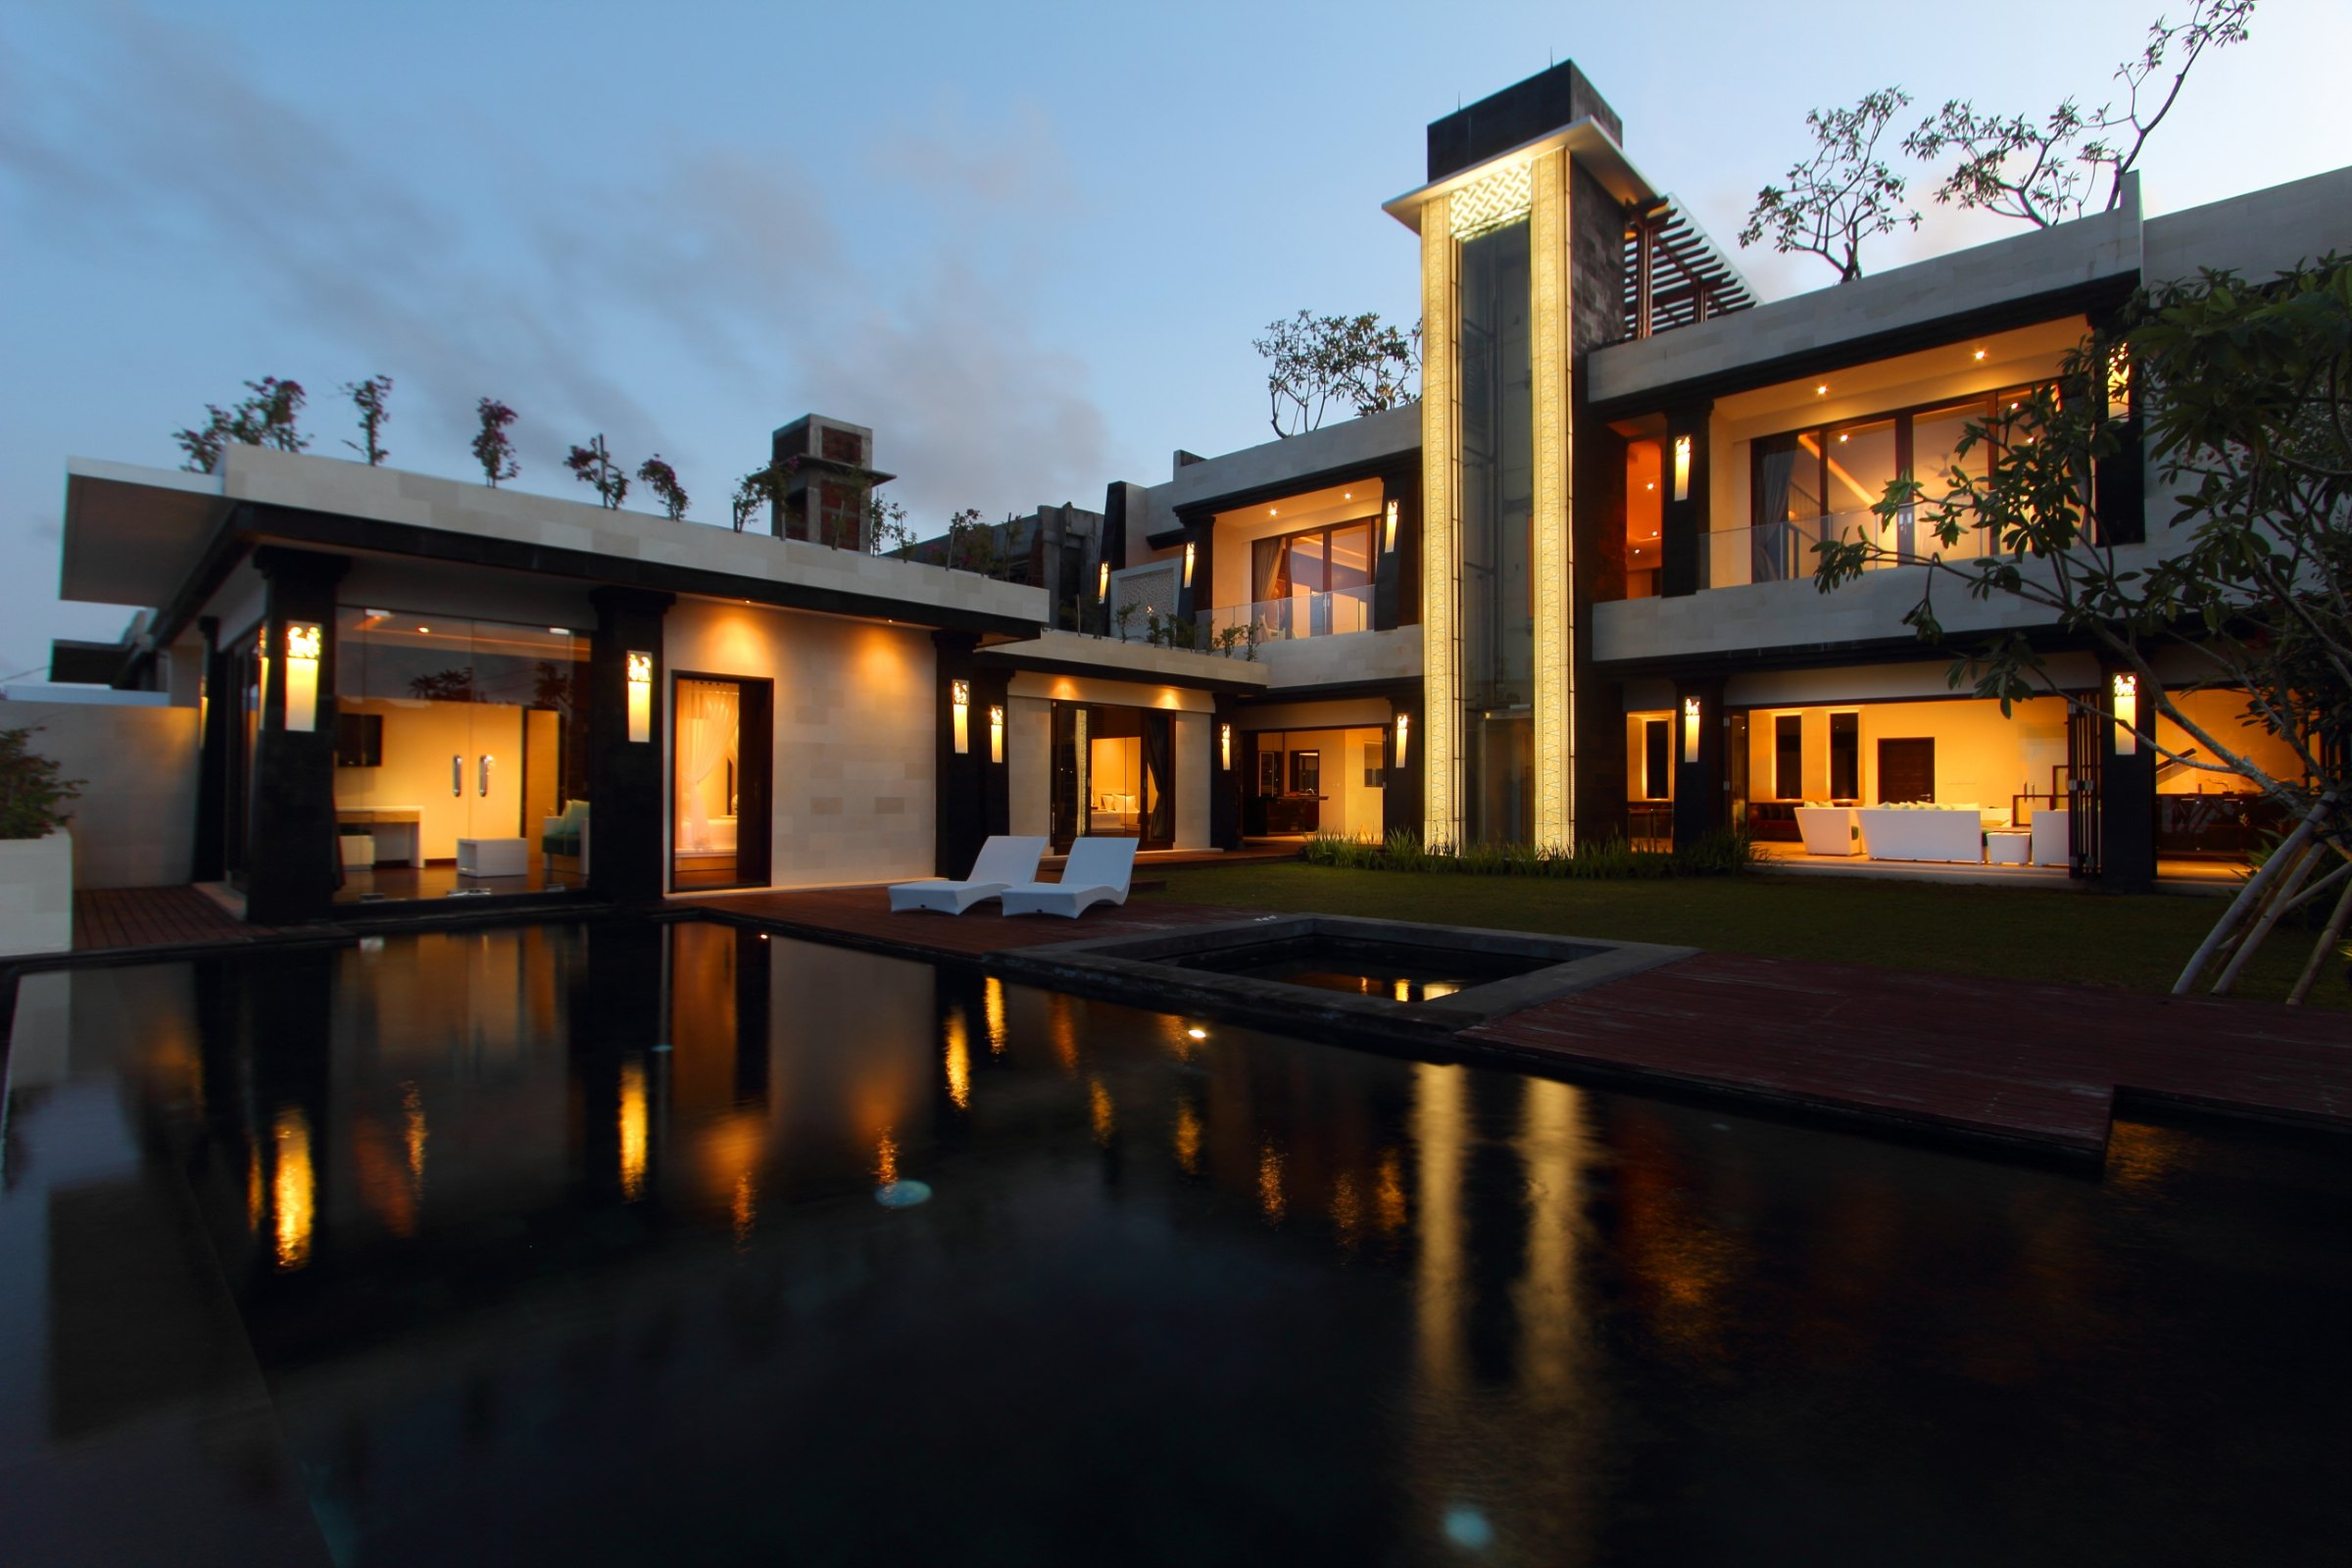
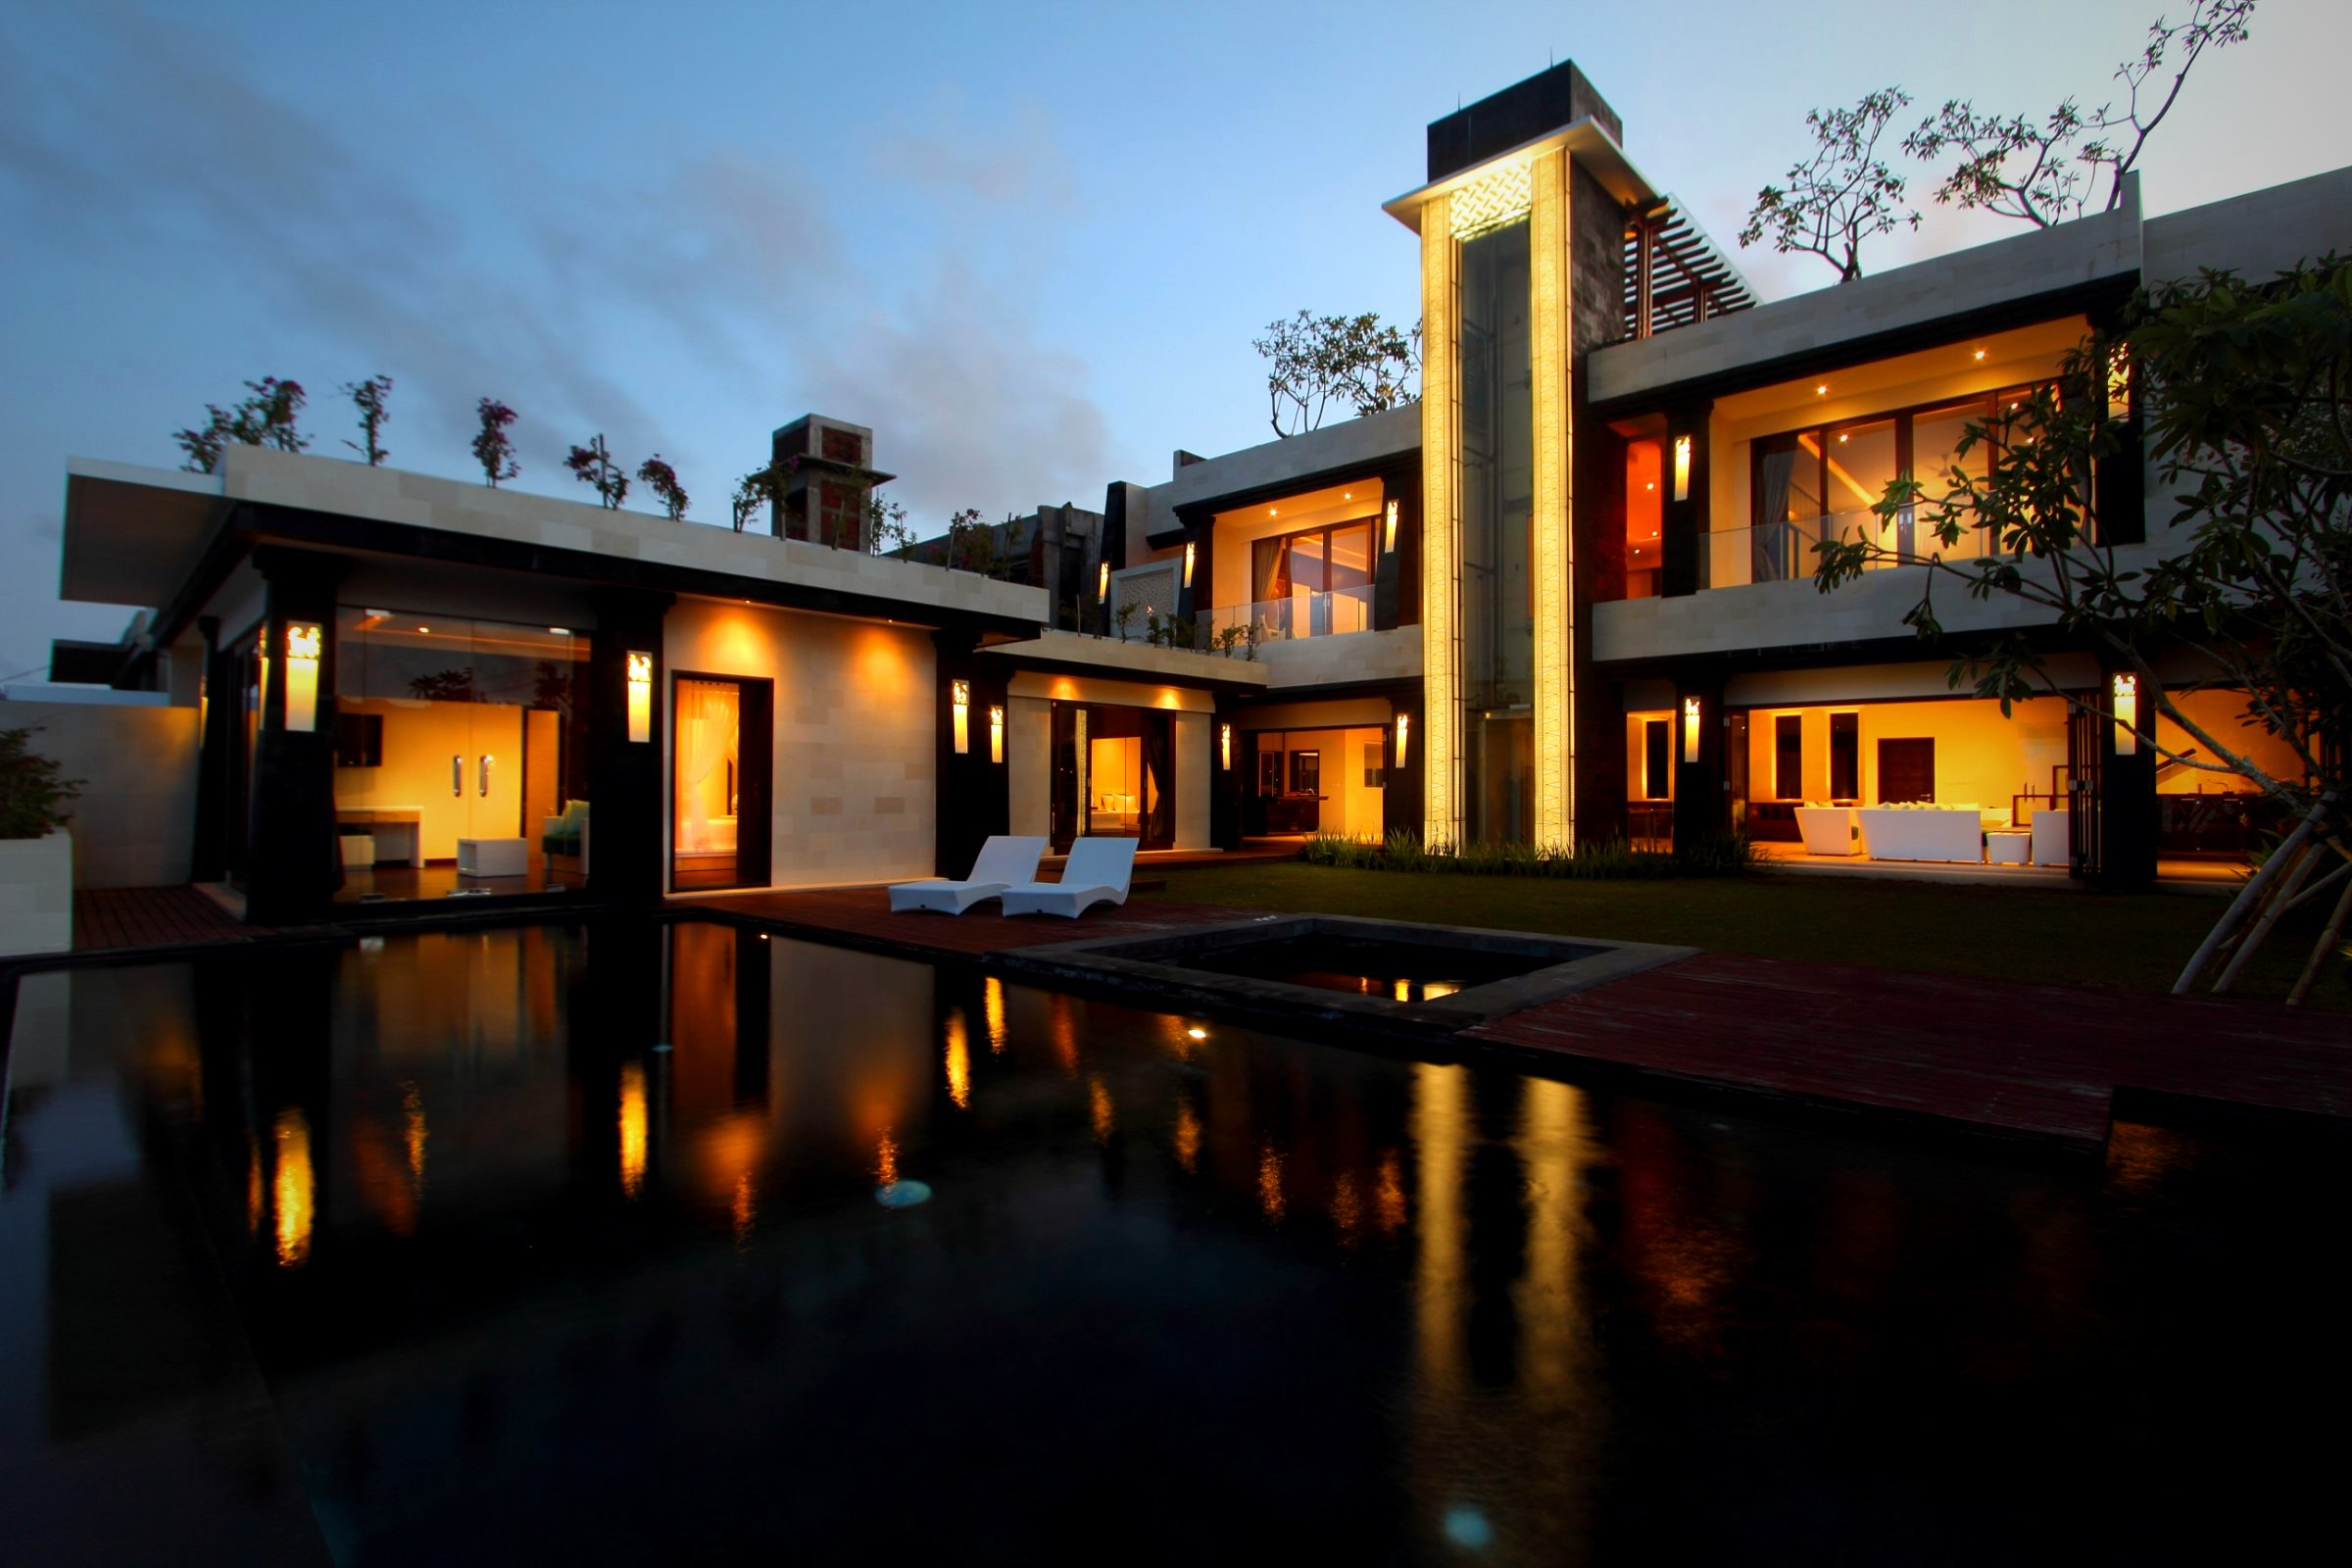
Hero: cinematic color grade baked into image; remove redundant CSS filter
Claude-Session: https://claude.ai/code/session_017tKH2wtU5XTveRE13PsBCA

diff --git a/puncak-asmara/website/css/site.css b/puncak-asmara/website/css/site.css
@@ -81,7 +81,7 @@ section{padding:clamp(70px,9vw,134px) 0}
 .hero{position:relative;min-height:100vh;display:flex;flex-direction:column;justify-content:flex-end;color:#fff;overflow:hidden;padding-bottom:10vh}
 .hero .media{position:absolute;inset:0;z-index:0}
 .hero .media img,.hero .media video{width:100%;height:100%;object-fit:cover}
-.hero .media img{animation:kenburns 30s ease-in-out infinite alternate;filter:saturate(1.07) contrast(1.05);image-rendering:auto}
+.hero .media img{animation:kenburns 30s ease-in-out infinite alternate}
 @keyframes kenburns{from{transform:scale(1.012)}to{transform:scale(1.05)}}
 @media(prefers-reduced-motion:reduce){.hero .media img{animation:none}}
 .hero::after{content:'';position:absolute;inset:0;z-index:1;